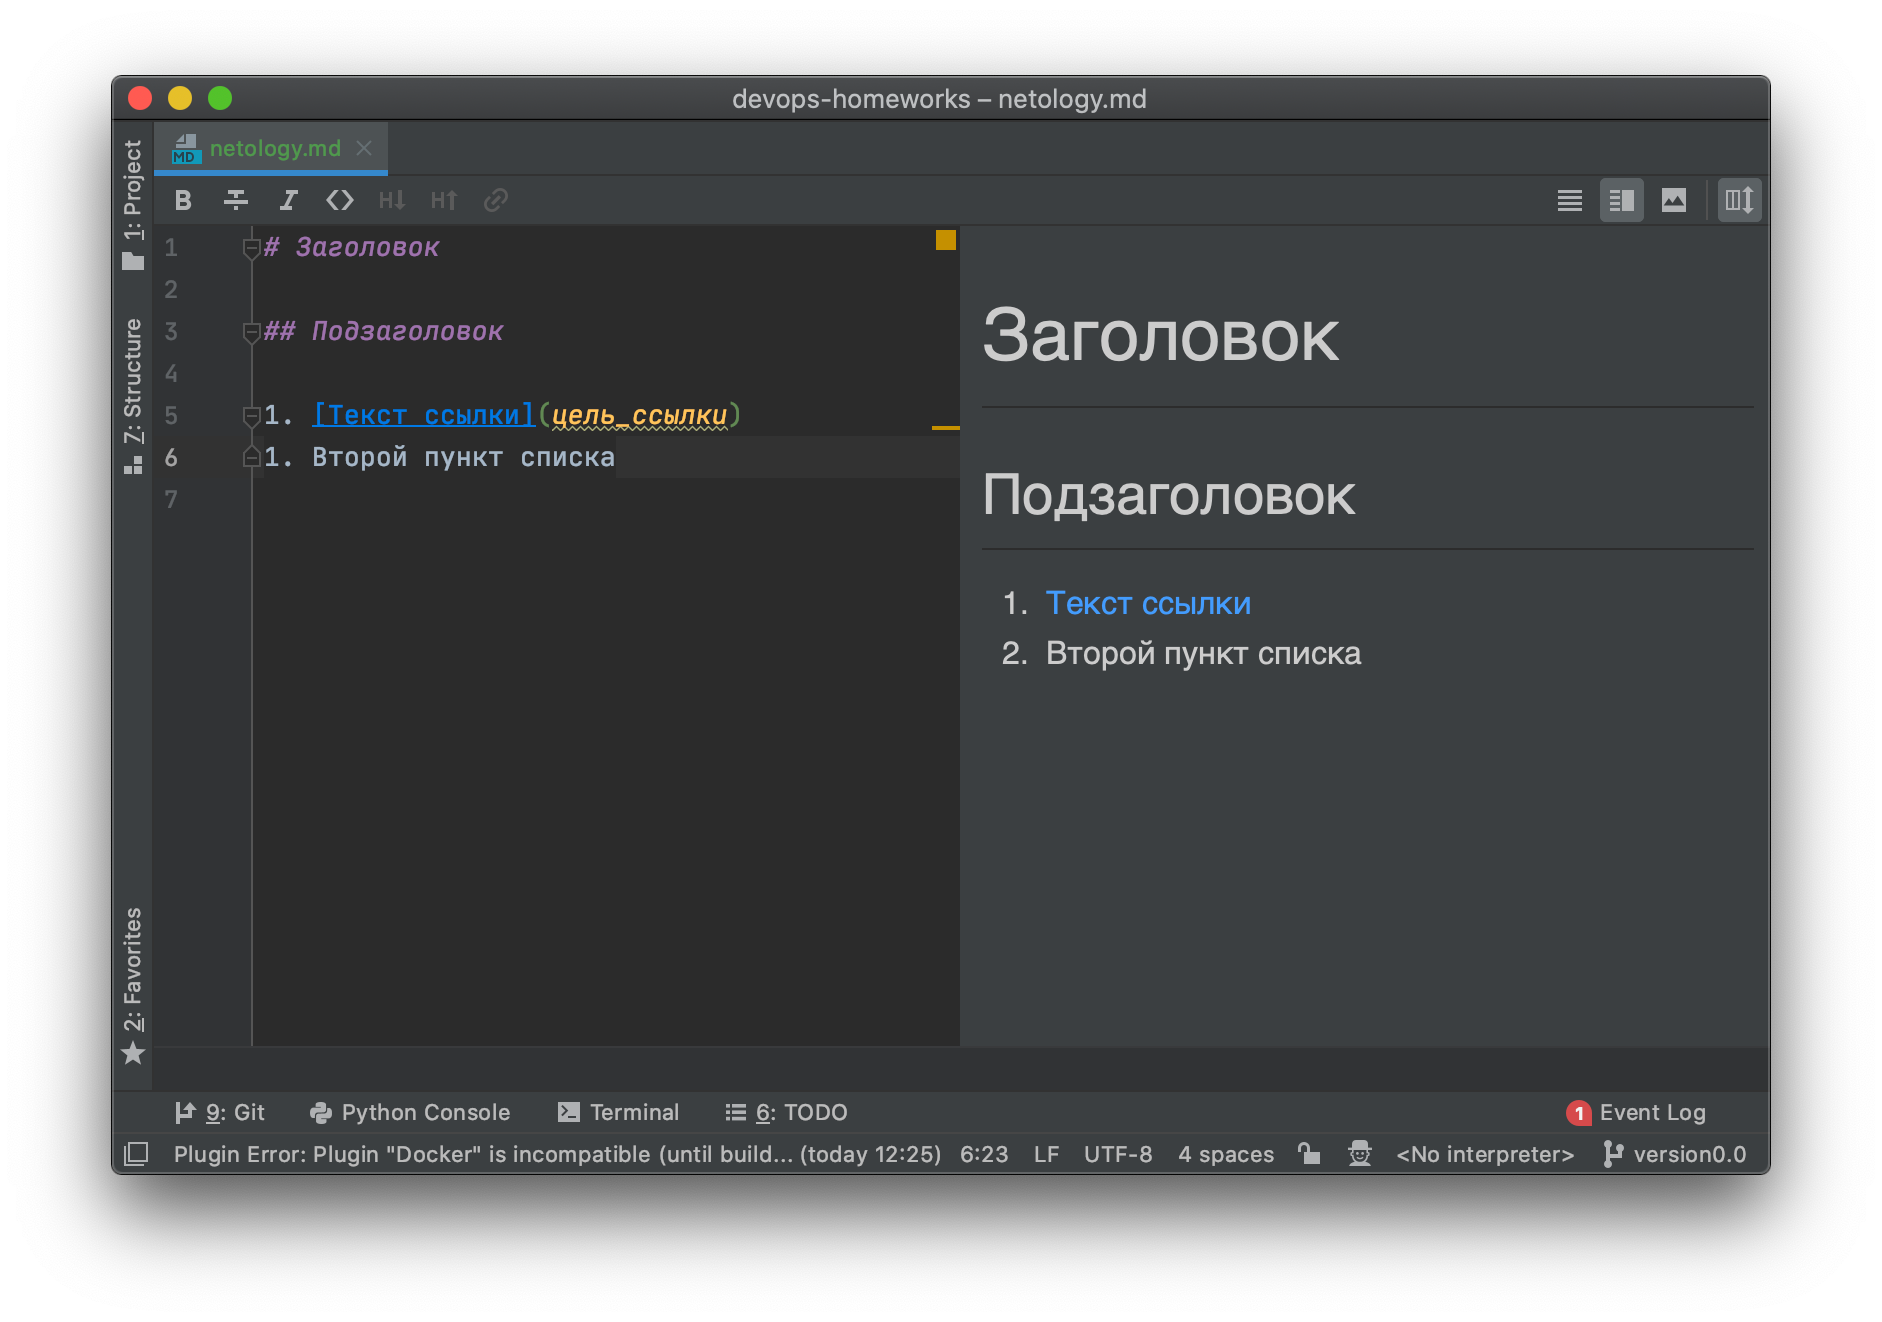
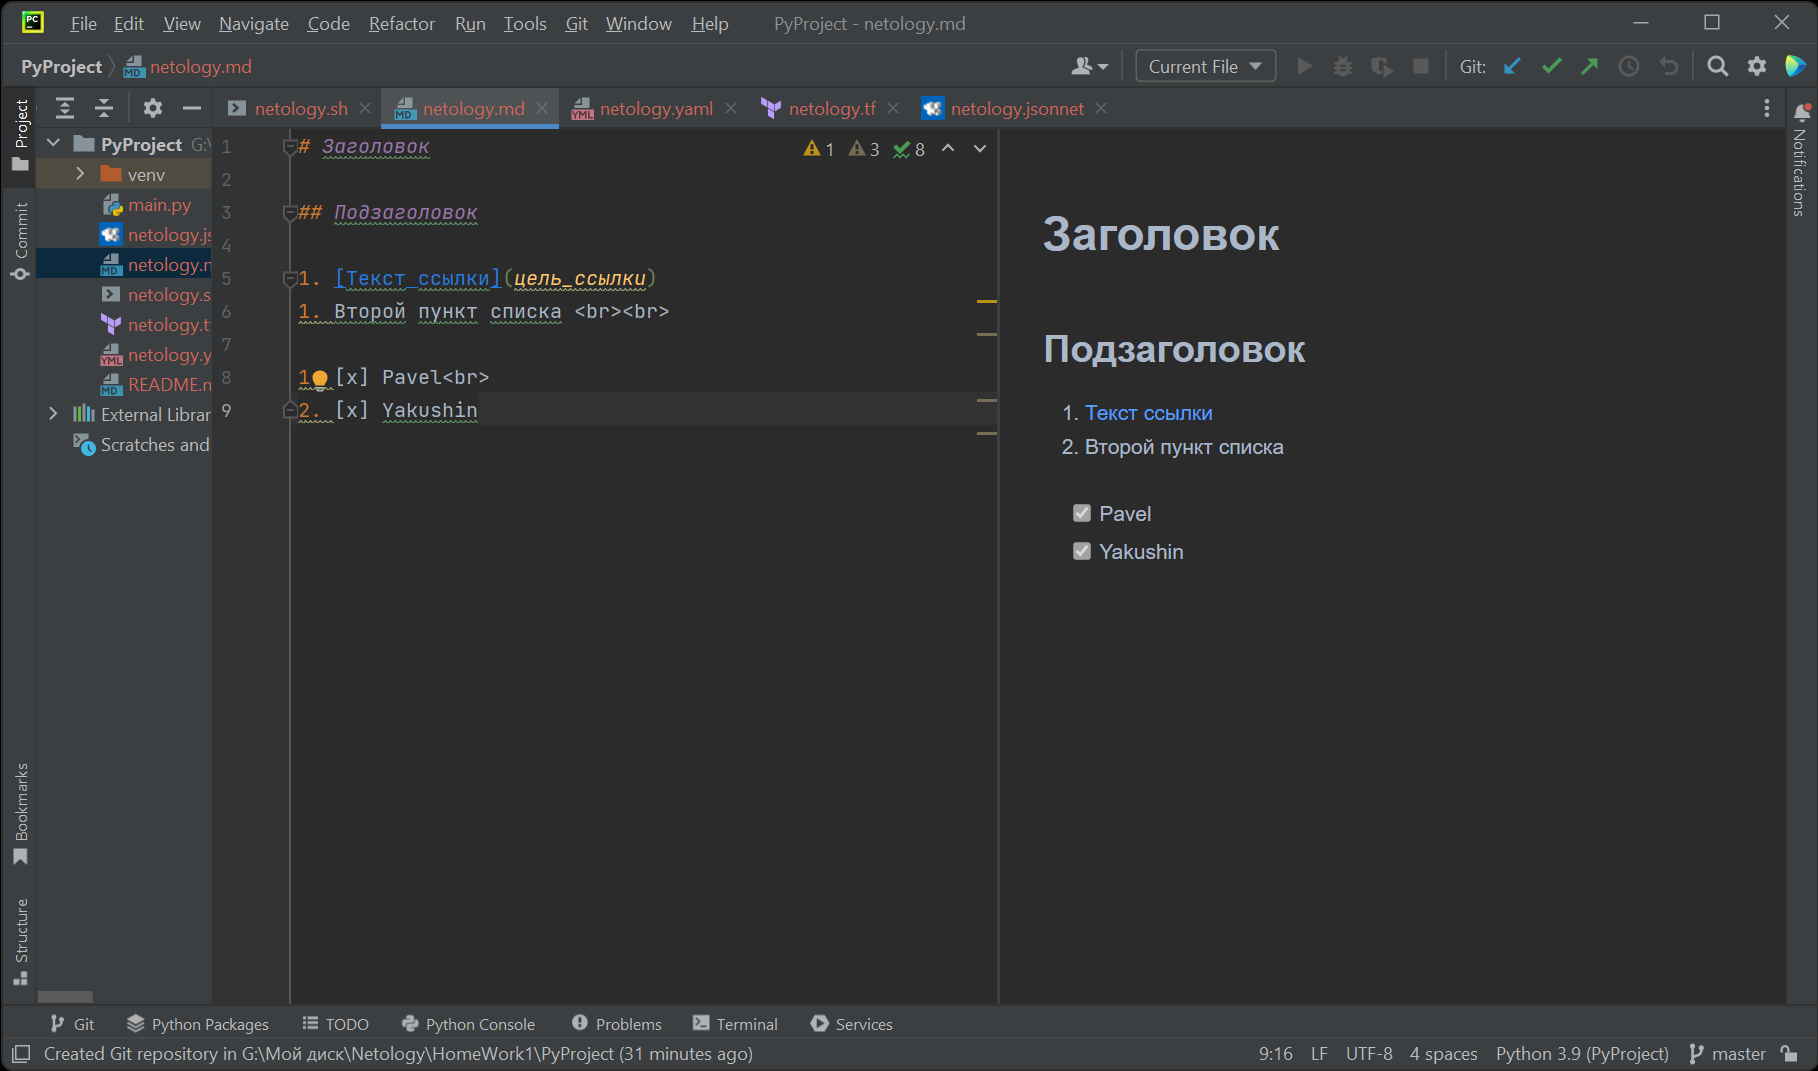
homework moved to git

diff --git a/01-intro-01/README.md b/01-intro-01/README.md
@@ -1,69 +1,38 @@
 
-## Как сдавать задания
-
-Обязательными к выполнению являются задачи без указания звездочки. Их выполнение необходимо для получения зачета и диплома о профессиональной переподготовке.
-
-Задачи со звездочкой (*) являются дополнительными задачами и/или задачами повышенной сложности. Они не являются обязательными к выполнению, но помогут вам глубже понять тему.
-
-Домашнее задание выполните в файле readme.md в github репозитории. В личном кабинете отправьте на проверку ссылку на .md-файл в вашем репозитории.
-
-Также вы можете выполнить задание в [Google Docs](https://docs.google.com/document/u/0/?tgif=d) и отправить в личном кабинете на проверку ссылку на ваш документ.
-Название файла Google Docs должно содержать номер лекции и фамилию студента. Пример названия: "1.1. Введение в DevOps — Сусанна Алиева".
-
-Если необходимо прикрепить дополнительные ссылки, просто добавьте их в свой Google Docs.
-
-Перед тем как выслать ссылку, убедитесь, что ее содержимое не является приватным (открыто на комментирование всем, у кого есть ссылка), иначе преподаватель не сможет проверить работу. Чтобы это проверить, откройте ссылку в браузере в режиме инкогнито.
-
-[Как предоставить доступ к файлам и папкам на Google Диске](https://support.google.com/docs/answer/2494822?hl=ru&co=GENIE.Platform%3DDesktop)
-
-[Как запустить chrome в режиме инкогнито ](https://support.google.com/chrome/answer/95464?co=GENIE.Platform%3DDesktop&hl=ru)
-
-[Как запустить  Safari в режиме инкогнито ](https://support.apple.com/ru-ru/guide/safari/ibrw1069/mac)
-
-Любые вопросы по решению задач задавайте в чате Slack.
-
 ---
 
 # Домашнее задание к занятию «1.1. Введение в DevOps»
 
 ## Задание №1 - Подготовка рабочей среды
 
-Вы пришли на новое место работы или приобрели новый компьютер.
-Первым делом надо настроить окружение для дальнейшей работы. 
-
-1. Установить PyCharm Community Edition: https://www.jetbrains.com/ru-ru/pycharm/download/ - это бесплатная версия IDE. 
-Если у вас уже установлен любой другой продукт от JetBrains,то можно использовать его. 
-1. Установить плагины:
+1. Установлен PyCharm и VSCode
+2. Установлены плагины:
     - Terraform,
     - MarkDown,
     - Yaml/Ansible Support,
     - Jsonnet.
-1. Склонировать текущий репозиторий или просто создать файлы для проверки плагинов:
+3. Склонированы текущий репозиторий и файлы для проверки плагинов:
     - [netology.tf](netology.tf) – terraform,
     - [netology.sh](netology.sh) – bash,
     - [netology.md](netology.md) – markdown, 
     - [netology.yaml](netology.yaml) – yaml,
     - [netology.jsonnet](netology.jsonnet) – jsonnet.
-1. Убедитесь, что работает подсветка синтаксиса, файлы должны выглядеть вот так:
+4. Убедитесь, что работает подсветка синтаксиса, файлы должны выглядеть вот так:
     - Terraform: ![Терраформ](img/terraform.png)
     - Bash: ![bahs](img/bash.png)
     - Markdown: ![markdown](img/markdown.png)
     - Yaml: ![Yaml](img/yaml.png)
     - Jsonnet: ![Jsonnet](img/jsonnet.png)
-1. Добавьте свое имя в каждый файл, сделайте снимок экрана и загрузите его на любой сервис обмена картинками.
-1. Ссылки на картинки укажите в личном кабинете как решение домашнего задания. 
+5. Добавлено свое имя в каждый файл, сделаны снимки экрана.
+6. Картинки присутсвуют в этом же файле. 
 
 ## Задание №2 - Описание жизненного цикла задачи (разработки нового функционала)
 
-Чтобы лучше понимать предназначение дальнейших инструментов, с которыми нам предстоит работать, давайте 
-составим схему жизненного цикла задачи в идеальном для вас случае.
+Чтобы лучше понимать предназначение дальнейших инструментов, с которыми нам предстоит работать, давайте составим схему жизненного цикла задачи в идеальном для вас случае.
 
 ### Описание истории
 
 Представьте, что вы работаете в стартапе, который запустил интернет-магазин. Ваш интернет-магазин достаточно успешно развивался, и вот пришло время налаживать процессы: у вас стало больше конечных клиентов, менеджеров и разработчиков.Сейчас от клиентов вам приходят задачи, связанные с разработкой нового функционала. Задач много, и все они требуют выкладки на тестовые среды, одобрения тестировщика, проверки менеджером перед показом клиенту. В случае необходимости, вам будет необходим откат изменений. 
 
 ### Решение задачи
-
-Вам необходимо описать процесс решения задачи в соответствии с жизненным циклом разработки программного обеспечения. Использование какого-либо конкретного метода разработки не обязательно. Для решения главное - прописать по пунктам шаги решения задачи (релизации в конечный результат) с участием менеджера, разработчика (или команды разработчиков), тестировщика (или команды тестировщиков) и себя как DevOps-инженера. 
-
- 
+- Картинка жизненного цикла задачи ![pic](img/bp01.drawio.png)

diff --git a/01-intro-01/netology.md b/01-intro-01/netology.md
@@ -3,4 +3,7 @@
 ## Подзаголовок
 
 1. [Текст ссылки](цель_ссылки)
-1. Второй пункт списка
+1. Второй пункт списка <br><br>
+
+1. [x] Pavel<br>
+2. [x] Yakushin
